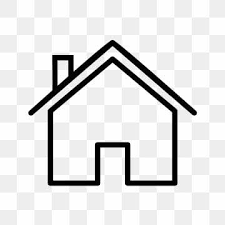
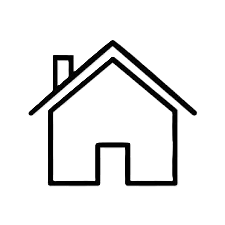
interface ajoutlog

diff --git a/pidev/src/main/java/tn/esprit/controllers/AjoutLogementController.java b/pidev/src/main/java/tn/esprit/controllers/AjoutLogementController.java
@@ -32,7 +32,7 @@ public class AjoutLogementController {
     private CheckBox disponibiliteCheckBox;
 
     @FXML
-    private Button ajouterBtn, annulerBtn, nomMicroBtn, imageMicroBtn, adresseMicroBtn, equipementMicroBtn;
+    private Button ajouterBtn, annulerBtn, nomMicroBtn, imageMicroBtn, adresseMicroBtn, equipementMicroBtn, tarifMicroBtn; // Ajout de tarifMicroBtn
 
     private Servicelogement servicelogement = new Servicelogement();
 
@@ -43,11 +43,12 @@ public class AjoutLogementController {
         imageMicroBtn.setOnAction(e -> handleMicro(imageField, imageMicroBtn));
         adresseMicroBtn.setOnAction(e -> handleMicro(adresseField, adresseMicroBtn));
         equipementMicroBtn.setOnAction(e -> handleMicro(equipementField, equipementMicroBtn));
+        tarifMicroBtn.setOnAction(e -> handleMicro(tarifField, tarifMicroBtn)); // Ajout pour tarif
 
         // Action pour ajouter
         ajouterBtn.setOnAction(e -> ajouterLogement());
 
-        // Action pour annuler (retour à la liste)
+        // Action pour annuler (retour à la liste via Dashboard)
         annulerBtn.setOnAction(e -> retourListe());
     }
 
@@ -177,14 +178,8 @@ public class AjoutLogementController {
     }
 
     private void retourListe() {
-        try {
-            Parent root = FXMLLoader.load(getClass().getResource("/Logements.fxml"));
-            Stage stage = (Stage) ajouterBtn.getScene().getWindow();
-            stage.setScene(new Scene(root));
-            stage.setTitle("Liste des Logements");
-        } catch (IOException e) {
-            e.printStackTrace();
-        }
+        // Charger la vue Logements dans le dashboard
+        Dashboard.loadView("/Logements.fxml");
     }
 
     private void showAlert(String title, String content) {
